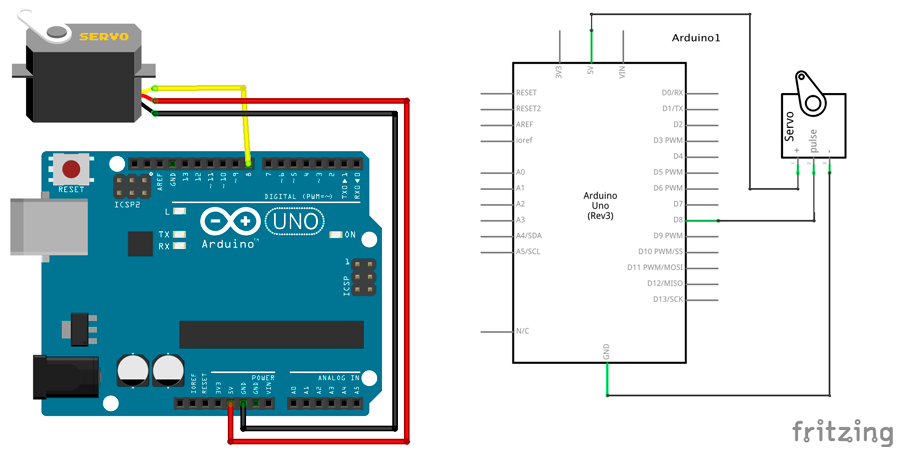
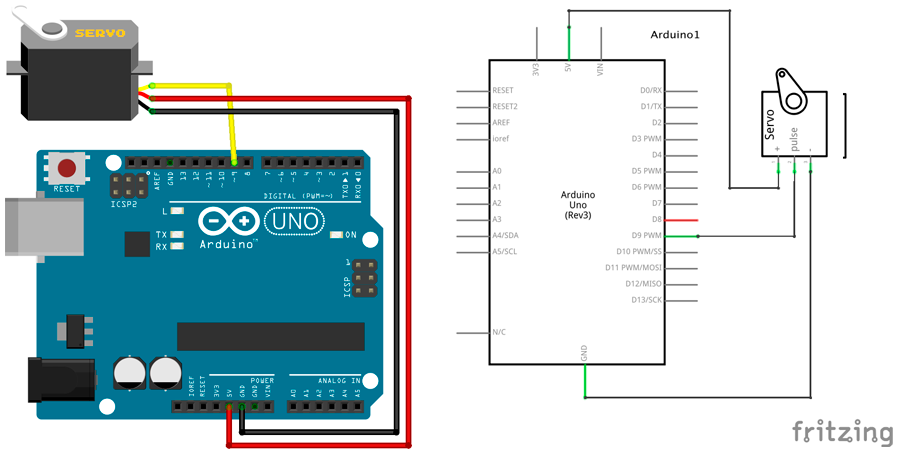
Movimiento de un servomotor

Changed region(s): [[0.0, 0.031, 0.4667, 1.0], [0.4978, 0.0, 0.9333, 0.8982]]

diff --git a/Movimiento de un servomotor/README.md b/Movimiento de un servomotor/README.md
@@ -98,6 +98,8 @@ Podrás observar el gran parecido que se tiene con el diagrama de flujo.
 
 Fijándonos en el diagrama de flujo programamos la práctica mediante lenguaje de programación por bloques S4A. 
 
+Hay que tener en cuenta que en S4A se toman las salidas del servomotor en el pin 8, 4 ó 7.
+
 Podrás observar el gran parecido que se tiene con el diagrama de flujo.
 
 ![Programación en S4A](Programación S4A.png)
@@ -140,7 +142,7 @@ Servo servomotor;
 //Este código se ejecuta la primera vez
 void setup() {
   // Configuramos los pines en modo salida
-  servomotor.attach(8);
+  servomotor.attach(9);
 }
 
 //Este código se ejecuta en bucle repetidamente
